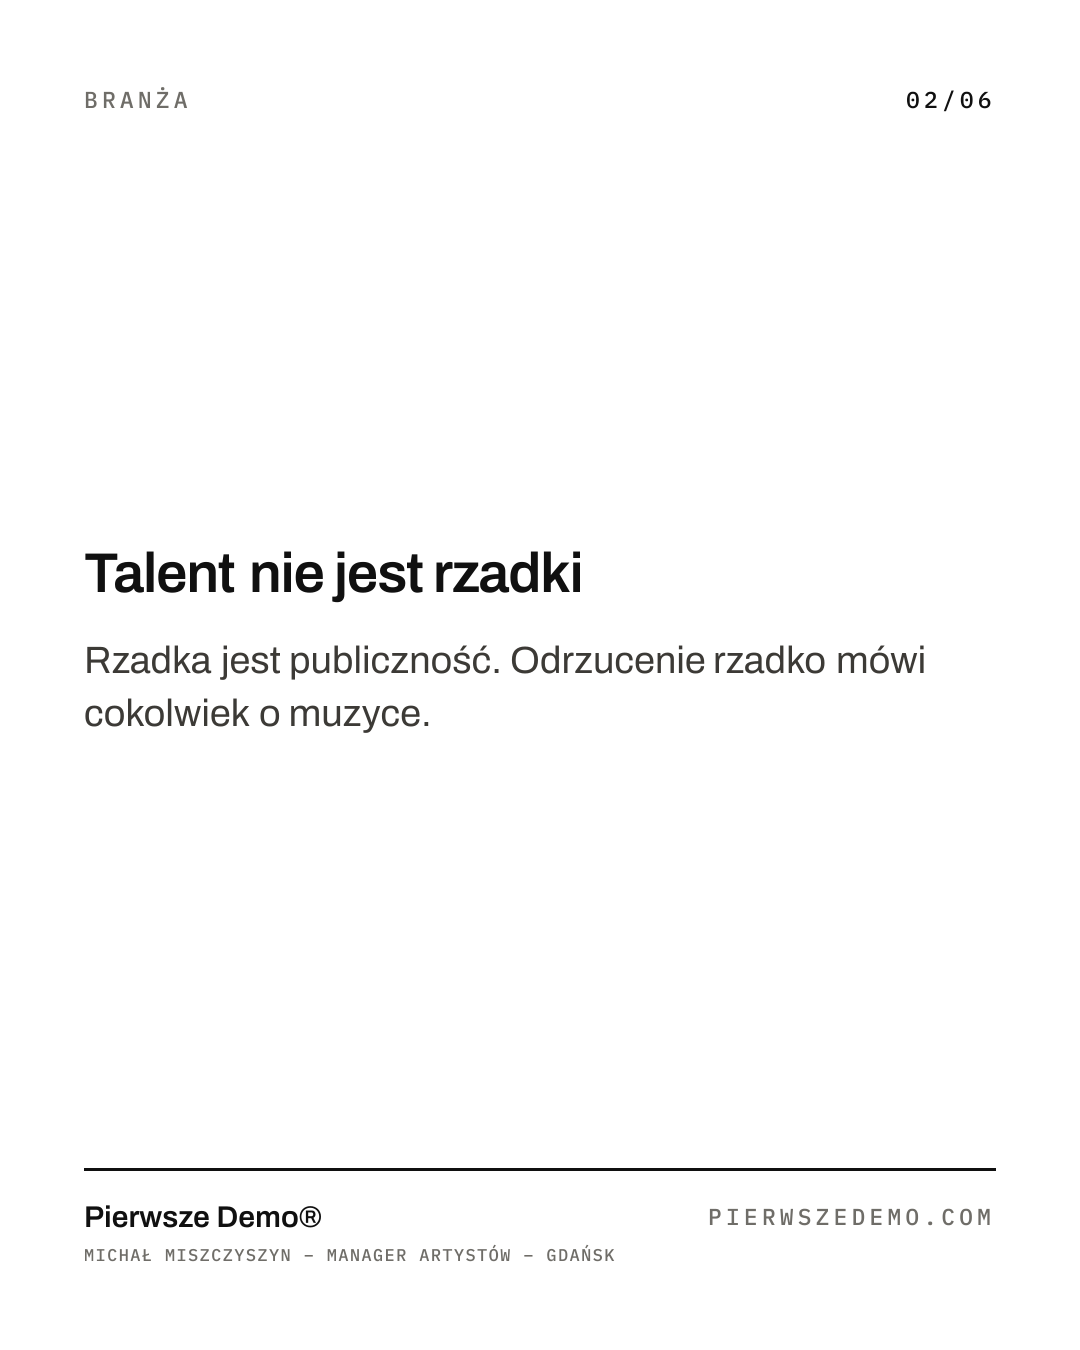
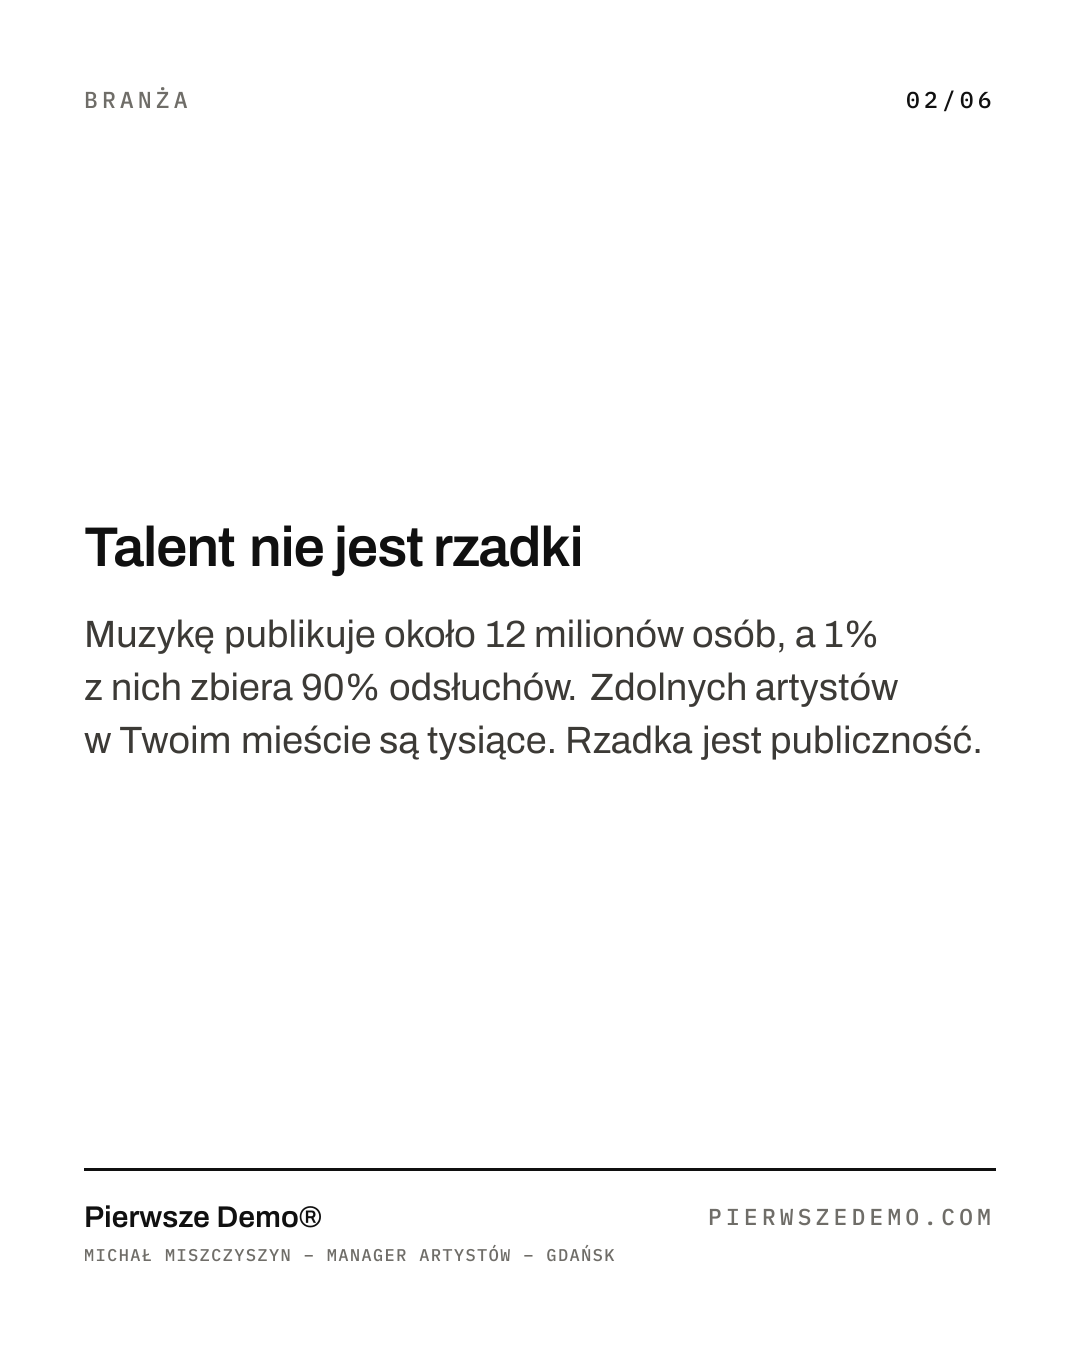
fix(ig): slajd = teza + konkret, bez wniosku
Pierwsza wersja karuzel streszczała wpis (teza + konkret + wniosek),
druga zostawiła samą tezę i czytała się jak slogan. Środek: konkret
z wpisu zatrzymuje kciuk, brak wniosku daje powód, żeby kliknąć w blog.
Zasada w SKILL.md zmieniona z ≤120 na 180–250 znaków na slajd.

Changed region(s): [[0.0611, 0.3733, 0.9167, 0.56]]

diff --git a/.agents/skills/instagram-carousel/SKILL.md b/.agents/skills/instagram-carousel/SKILL.md
@@ -54,11 +54,13 @@ Przeczytaj **cały wpis**, nie sam frontmatter. Z lektury wynoś:
   niesie 2–3, przewodnik 3–4 (po jednym na najważniejsze sekcje `##`). Nie
   upychaj wszystkiego: punkt, który nie mieści się w limicie znaków, jest
   kandydatem do wycięcia, nie do skrócenia w bełkot.
-- **Slajd to teza, nie akapit.** Nagłówek plus jedno, góra dwa krótkie zdania
-  – w praktyce ≤120 znaków `body`. Uzasadnienie, przykład i liczby wspierające
-  zostają we wpisie; na slajdzie jest tylko to, co ma zaciekawić. Limit 440
-  znaków w walidatorze to geometria kadru, nie cel – karuzela, która go
-  wypełnia, jest streszczeniem notatki i nikt po niej nie kliknie w blog.
+- **Slajd = teza + jeden konkret, bez wniosku.** Celuj w 180–250 znaków
+  `body`. Konkret (scena, liczba ze źródłem, kontrast, cytat z panelu) jest
+  obowiązkowy – to on zatrzymuje kciuk; sama teza w jednym zdaniu czyta się
+  jak slogan i nie angażuje. Wniosek, uzasadnienie i „co z tym zrobić”
+  zostają we wpisie – to one są powodem kliknięcia. Limit 440 znaków
+  w walidatorze to geometria kadru, nie cel: karuzela, która go wypełnia,
+  streszcza notatkę i nikt po niej nie wejdzie na blog.
 - Ostatni slajd treści kończy się niedopowiedzeniem albo pytaniem („Co, jeśli
   przegra?”) – powód, żeby wejść na blog, ma zostać.
 
@@ -95,7 +97,7 @@ Zapisz do `instagram/<data>-<slug>/slides.json`:
   tylko górną); stopień pisma dobiera się do długości, 96→64 px.
 - `slides` – 1–4 pozycje; `heading` ≤64 znaki, `body` to string albo tablica
   1–3 akapitów, łącznie ≤440 znaków **licząc spację między akapitami** (górna
-  granica geometrii; redakcyjnie celuj w ≤120 – patrz krok 2).
+  granica geometrii; redakcyjnie celuj w 180–250 – patrz krok 2).
 - `cta` jest opcjonalne – domyślne wartości (powyżej) są dobre w 90% przypadków;
   `lines` to tablica 1–4 linii po ≤22 znaki, `url` ≤60 znaków. Adres renderuje
   się małymi literami – ścieżki na Vercelu rozróżniają wielkość liter.
